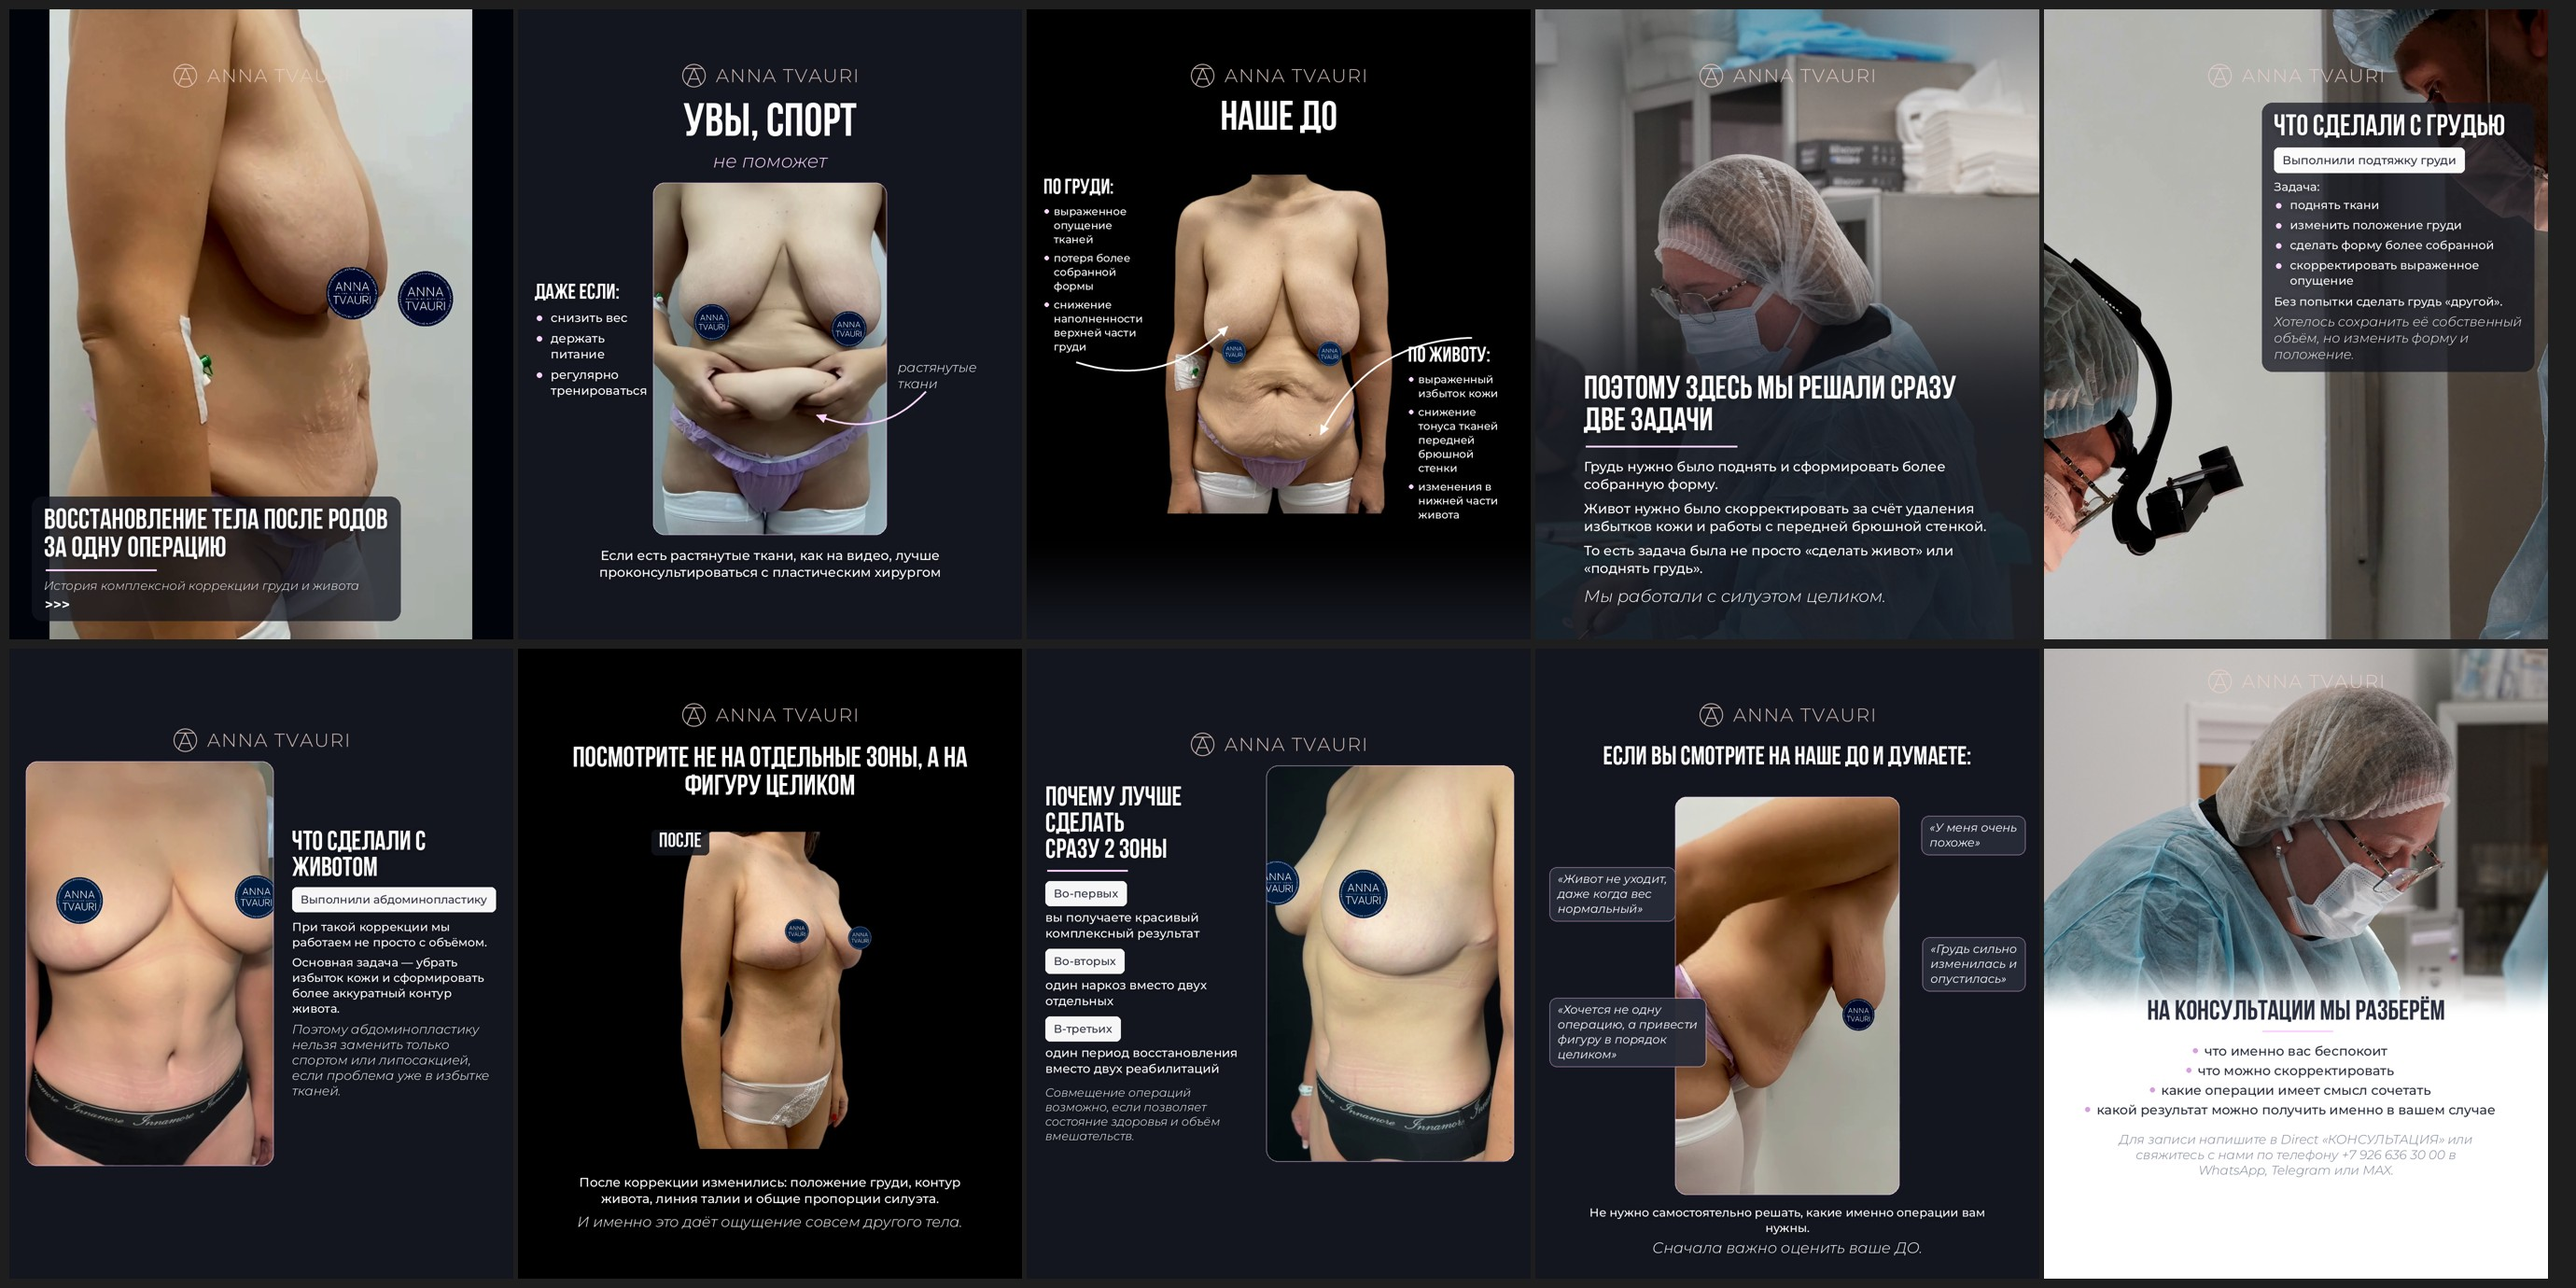
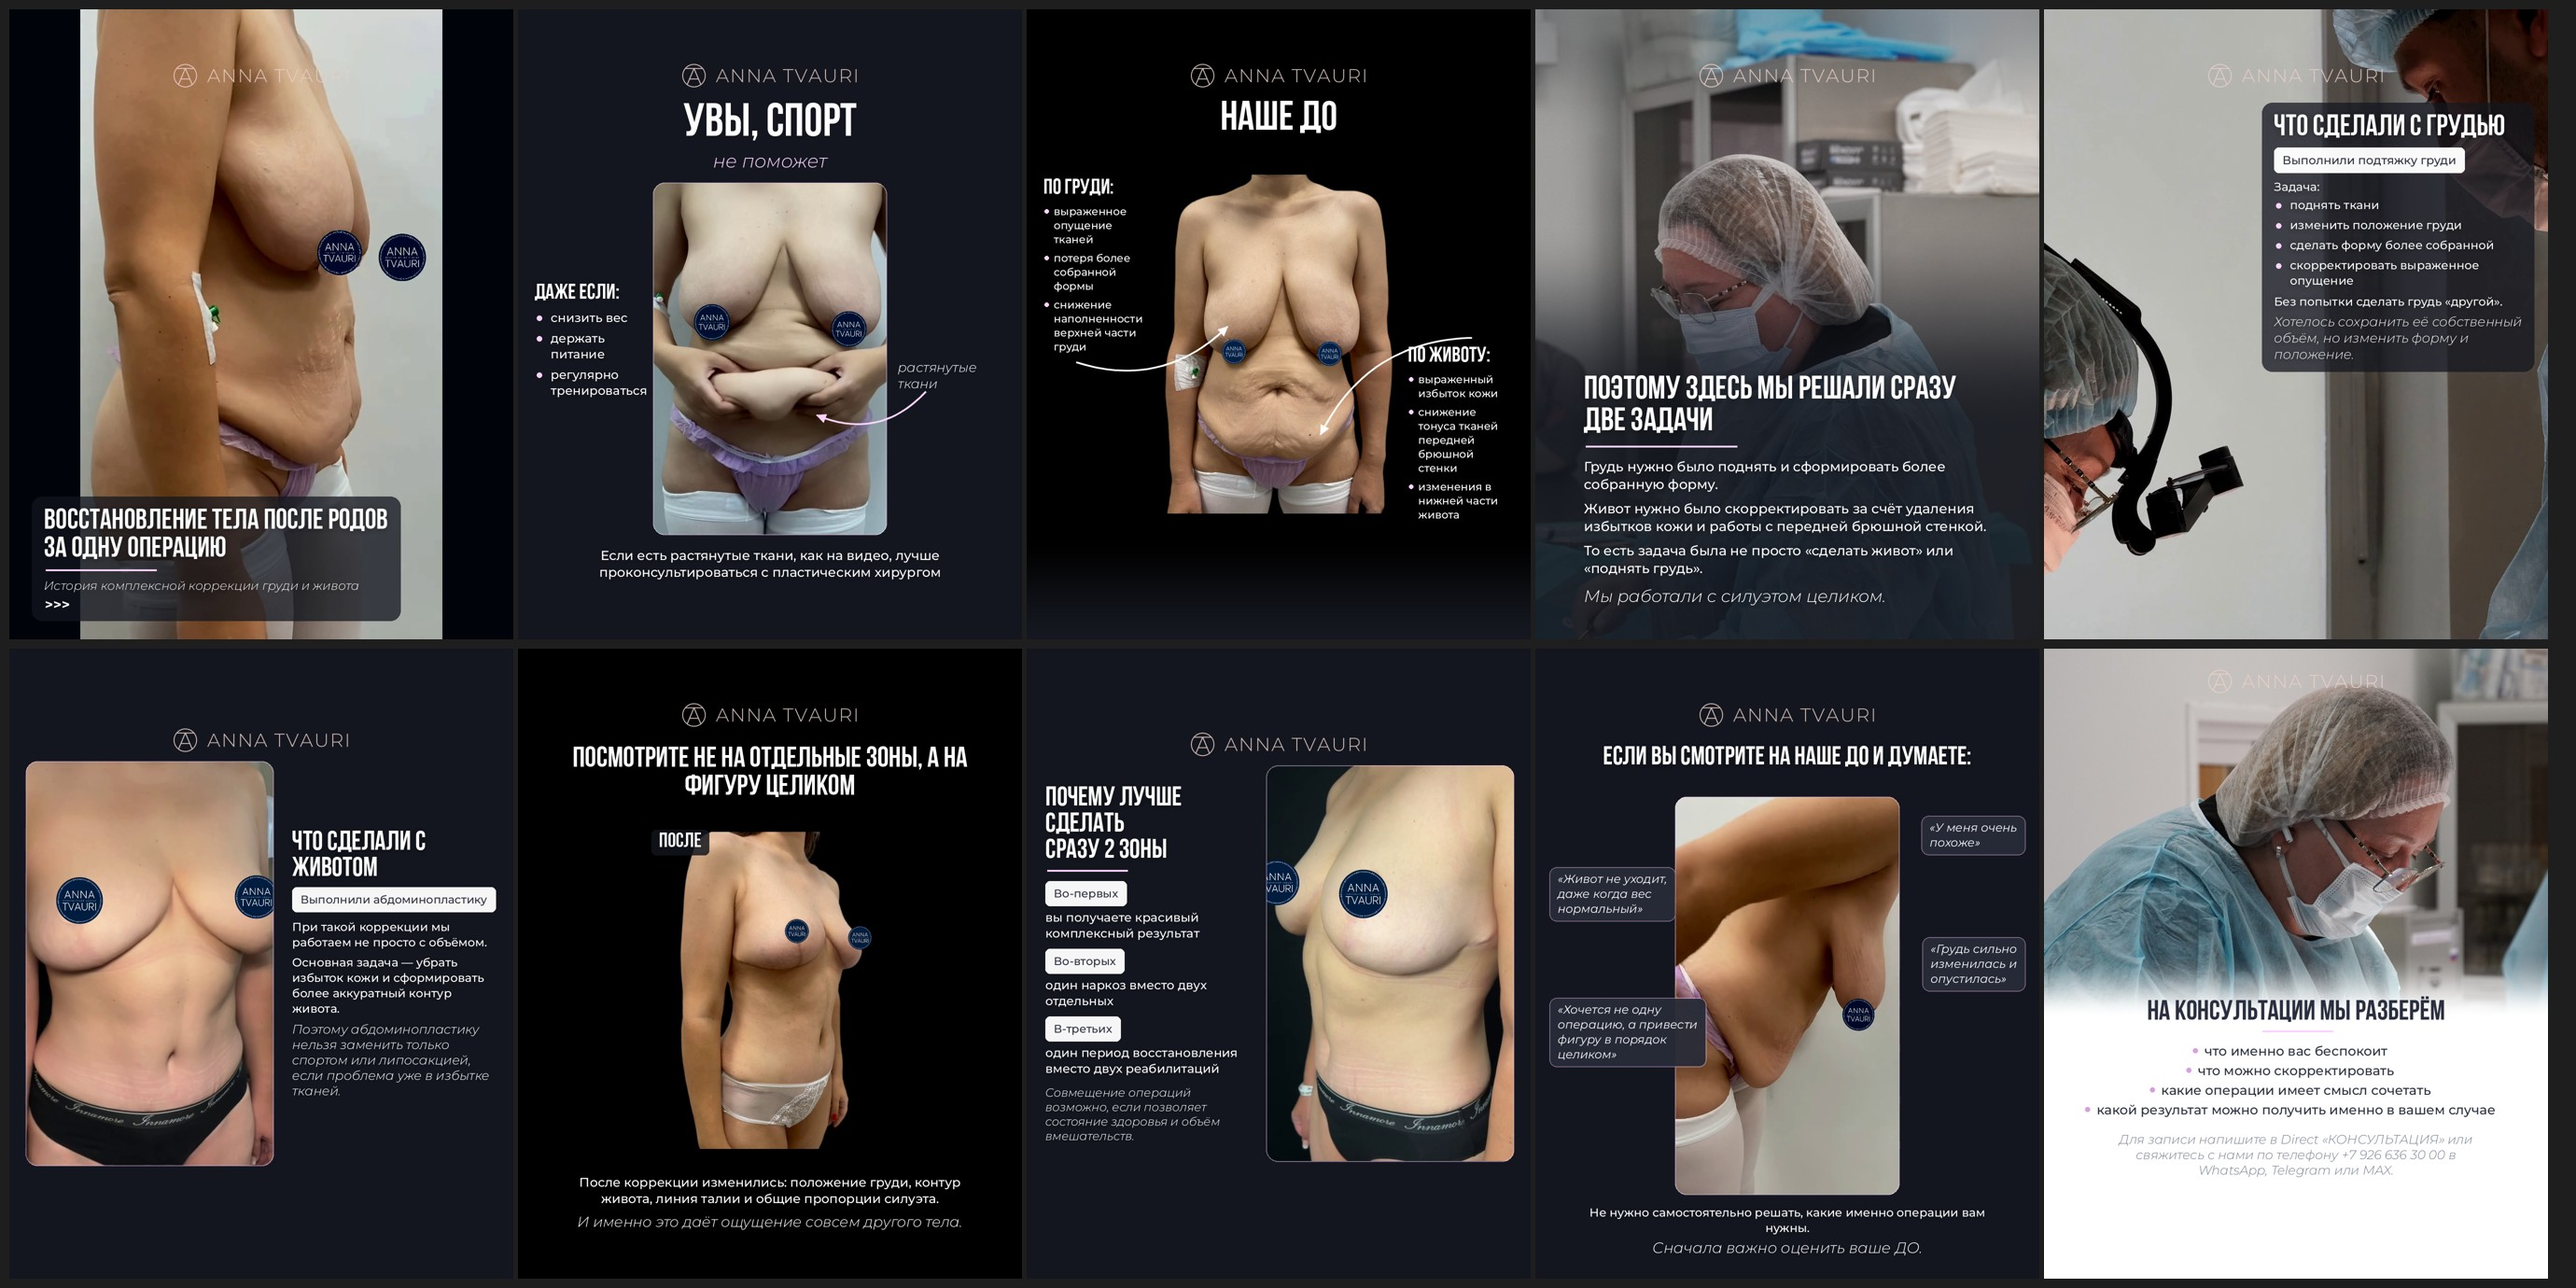
Carousel: cover shows more of the legs
Claude-Session: https://claude.ai/code/session_01XB7jWmRDxB52StXcRzXaWE

Changed region(s): [[0.0, 0.0, 0.187, 0.4986]]

diff --git a/tools/carousel_tvauri.py b/tools/carousel_tvauri.py
@@ -423,7 +423,7 @@ def s01():
     b = (Block().head("Восстановление тела после родов\nза одну операцию", 62, 14).rule(0.22, 14)
          .ital("История комплексной коррекции груди и живота", 26, 10).arrows())
     render_video("01", [("IMG_3357.MOV", 0, None)], caption_overlay(b, 1290), f"{OUT}/01_cover.mp4",
-                 crop_y=0.0, zoom=0.84, sides="graphite", grade=GRADE_WALL)
+                 crop_y=0.0, zoom=0.72, sides="graphite", grade=GRADE_WALL)
 
 # ---- 2. not about weight: text panel + pinch footage
 def s02():
